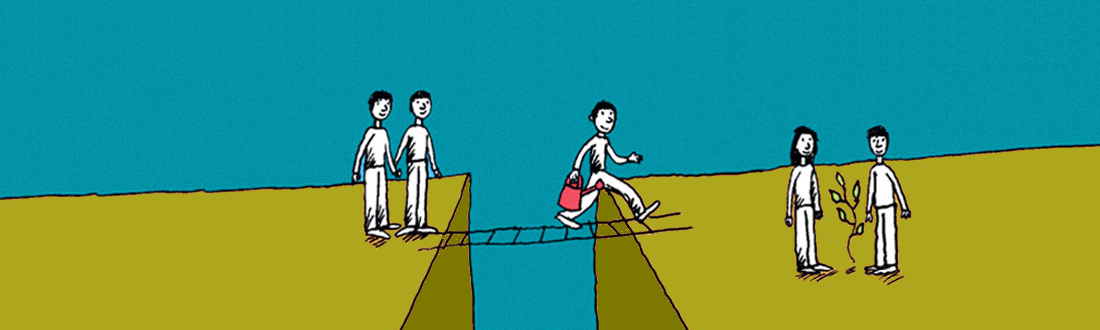
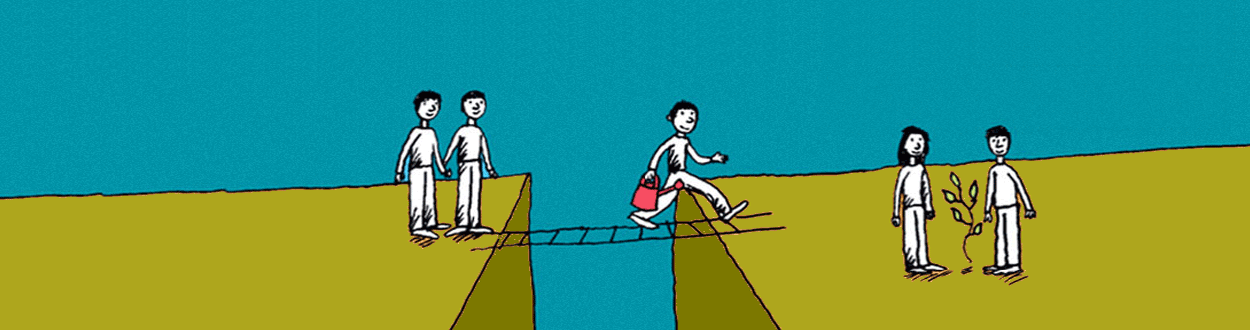
Modification taille du portail > 1250px // Modification du bandeau pour nouvelle taille // repositionnement de leftcolumn maincolumn rightcolum

diff --git a/src/clpsbw/skin/skins/clpsbw_styles/clpsbw.css b/src/clpsbw/skin/skins/clpsbw_styles/clpsbw.css
@@ -509,14 +509,14 @@ background-position:right bottom;
 
 #left-experience{
 float:left;
-width:450px;
+width:560px;
 padding:0px 5px;
 color:#51686d;
 }
 
 #right-experience{
 float:right;
-width:200px;
+width:220px;
 color:#111;
 font-size:0.9em;
 margin-top:-70px;
@@ -532,7 +532,7 @@ padding:25px 0px 20px 0px;
 /*margin-top:45px;*/
 margin-bottom:20px;
 height:73px;
-width:580px;
+width:88%;
 background-color:#da951f;
 border-radius:18px;
 padding-top:10px;
@@ -661,12 +661,12 @@ height:90px;
 background-image:url(des_exp_right_header.png);
 background-repeat:no-repeat;
 position:relative;
-left:500px;
+left:645px;
 top:-50px;
 }
 
 #right-experience-content{
-width:216px;
+width:220px;
 }
 
 #right-experience-content p{
@@ -773,13 +773,28 @@ margin-top:8px;
 margin-right:26px;
 }
 
-
-
-.menu-gestion{
-padding:4px 0px;
+div.description-listing h3{
+display:block;
+width:80%;
+cursor:pointer;
+margin-top:15px;
+font-size:1.2em;
+color:#666;
+text-shadow:1px 1px 1px rgba(255,255,255, 1); 
+padding-left:15px;
+margin-bottom:4px;
+background-image:url(label_flch_rouge.png);
+background-repeat:no-repeat;
+background-position:left 3px;
 }
 
-.ligne-top-menu-gestion-donnee{
+div.description-listing p{
+padding-left:15px;
+text-align:justify;
+}
+
+/*** menu gestion listing admin ***/
+hr.ligne-top-menu-gestion-donnee{
 margin:8px 0px 9px 0px;
 border: 0;
 height: 1px;
@@ -789,8 +804,12 @@ background-image: -ms-linear-gradient(left, rgba(0,0,0,0), rgba(0,0,0,0.75), rgb
 background-image: -o-linear-gradient(left, rgba(0,0,0,0), rgba(0,0,0,0.75), rgba(0,0,0,0));
 }
 
-.experience-etat{
-float:left;
+div.zone-menu-gestion{
+padding:4px 0px;
+}
+
+div.experience-etat{
+float:right;
 background-color:#ffd6ff;
 width:170px;
 text-align:center;
@@ -800,15 +819,13 @@ border:1px solid #dc00be;
 border-radius:5px;
 }
 
-
-#menu-gestion-donnee{
-padding:4px 0px;
-margin-top:6px;
+ul#menu-gestion-donnee{
+float:left;
 }
 
-#menu-gestion-donnee li{
+ul#menu-gestion-donnee li{
 display:inline;
-font-size:0.8em;
+font-size:0.9em;
 font-family: "Helvetica Neue", Helvetica, Arial, sans-serif;
 font-weight:bold;
 text-align:center;
@@ -816,13 +833,25 @@ text-shadow:0px 1px 0px rgba(255,255,255,0.5);
 margin:0px 6px;
 }
 
-#menu-gestion-donnee li a:link{
+ul#menu-gestion-donnee li a:link{
 color:rgb(80,80,80);
 text-decoration: none;
 padding:6px 12px;
 border-radius:100px;
 border:1px solid #ddd;
 box-shadow:1px 1px 0px rgba(255,255,255,0.7);
+background: rgb(242,246,248); /* Old browsers */
+background: -moz-linear-gradient(top,  rgba(242,246,248,1) 0%, rgba(216,225,231,1) 50%, rgba(181,198,208,1) 51%, rgba(224,239,249,1) 100%); /* FF3.6+ */
+background: -webkit-gradient(linear, left top, left bottom, color-stop(0%,rgba(242,246,248,1)), color-stop(50%,rgba(216,225,231,1)), color-stop(51%,rgba(181,198,208,1)), color-stop(100%,rgba(224,239,249,1))); /* Chrome,Safari4+ */
+background: -webkit-linear-gradient(top,  rgba(242,246,248,1) 0%,rgba(216,225,231,1) 50%,rgba(181,198,208,1) 51%,rgba(224,239,249,1) 100%); /* Chrome10+,Safari5.1+ */
+background: -o-linear-gradient(top,  rgba(242,246,248,1) 0%,rgba(216,225,231,1) 50%,rgba(181,198,208,1) 51%,rgba(224,239,249,1) 100%); /* Opera 11.10+ */
+background: -ms-linear-gradient(top,  rgba(242,246,248,1) 0%,rgba(216,225,231,1) 50%,rgba(181,198,208,1) 51%,rgba(224,239,249,1) 100%); /* IE10+ */
+background: linear-gradient(to bottom,  rgba(242,246,248,1) 0%,rgba(216,225,231,1) 50%,rgba(181,198,208,1) 51%,rgba(224,239,249,1) 100%); /* W3C */
+filter: progid:DXImageTransform.Microsoft.gradient( startColorstr='#f2f6f8', endColorstr='#e0eff9',GradientType=0 ); /* IE6-9 */
+}
+
+ul#menu-gestion-donnee li a:hover{
+color:#000 !important;
 background: rgb(252,234,187); /* Old browsers */
 background: -moz-linear-gradient(top,  rgba(252,234,187,1) 0%, rgba(252,205,77,1) 50%, rgba(248,181,0,1) 51%, rgba(251,223,147,1) 100%); /* FF3.6+ */
 background: -webkit-gradient(linear, left top, left bottom, color-stop(0%,rgba(252,234,187,1)), color-stop(50%,rgba(252,205,77,1)), color-stop(51%,rgba(248,181,0,1)), color-stop(100%,rgba(251,223,147,1))); /* Chrome,Safari4+ */
@@ -831,17 +860,6 @@ background: -o-linear-gradient(top,  rgba(252,234,187,1) 0%,rgba(252,205,77,1) 5
 background: -ms-linear-gradient(top,  rgba(252,234,187,1) 0%,rgba(252,205,77,1) 50%,rgba(248,181,0,1) 51%,rgba(251,223,147,1) 100%); /* IE10+ */
 background: linear-gradient(to bottom,  rgba(252,234,187,1) 0%,rgba(252,205,77,1) 50%,rgba(248,181,0,1) 51%,rgba(251,223,147,1) 100%); /* W3C */
 filter: progid:DXImageTransform.Microsoft.gradient( startColorstr='#fceabb', endColorstr='#fbdf93',GradientType=0 ); /* IE6-9 */
-}
-#menu-gestion-donnee li a:hover{
-color:#000 !important;
-background: -moz-linear-gradient(top,  rgba(252,234,187,0.75) 0%, rgba(252,205,77,0.75) 50%, rgba(248,181,0,0.75) 51%, rgba(251,223,147,0.75) 100%); /* FF3.6+ */
-background: -webkit-gradient(linear, left top, left bottom, color-stop(0%,rgba(252,234,187,0.75)), color-stop(50%,rgba(252,205,77,0.75)), color-stop(51%,rgba(248,181,0,0.75)), color-stop(100%,rgba(251,223,147,0.75))); /* Chrome,Safari4+ */
-background: -webkit-linear-gradient(top,  rgba(252,234,187,0.75) 0%,rgba(252,205,77,0.75) 50%,rgba(248,181,0,0.75) 51%,rgba(251,223,147,0.75) 100%); /* Chrome10+,Safari5.1+ */
-background: -o-linear-gradient(top,  rgba(252,234,187,0.75) 0%,rgba(252,205,77,0.75) 50%,rgba(248,181,0,0.75) 51%,rgba(251,223,147,0.75) 100%); /* Opera 11.10+ */
-background: -ms-linear-gradient(top,  rgba(252,234,187,0.75) 0%,rgba(252,205,77,0.75) 50%,rgba(248,181,0,0.75) 51%,rgba(251,223,147,0.75) 100%); /* IE10+ */
-background: linear-gradient(to bottom,  rgba(252,234,187,0.75) 0%,rgba(252,205,77,0.75) 50%,rgba(248,181,0,0.75) 51%,rgba(251,223,147,0.75) 100%); /* W3C */
-filter: progid:DXImageTransform.Microsoft.gradient( startColorstr='#bffceabb', endColorstr='#bffbdf93',GradientType=0 ); /* IE6-9 */
-
 }
 
 /*** LISTING EXPERIENCE ***/ 

diff --git a/src/clpsbw/skin/static/style.css b/src/clpsbw/skin/static/style.css
@@ -39,7 +39,7 @@ color:#205C90;
 #wrapper{
 background-color:#FFF;
 margin-top:-10px;
-width:1100px;
+width:1250px;
 min-height:700px;
 margin-left:auto;
 margin-right:auto;
@@ -313,7 +313,7 @@ border-color:#20a3af;
 border-radius:0px 0px 8px 8px;
 width:124px;
 padding-top:40px;
-margin-left:-1081px;
+margin-left:-1231px;
 }
 
 div.position-0{
@@ -357,12 +357,12 @@ font-size:80%;
 line-height:1.5em;
 margin:25px 0.25em 2em;
 padding:10px 23px 20px 20px;
-width:640px;
+width:800px;
 }
 
 div#portal-column-content{
-width:715px;
-margin-left:-850px;
+width:850px;
+margin-left:-990px;
 }
 
 div#portal-column-content.cell div div#main{
